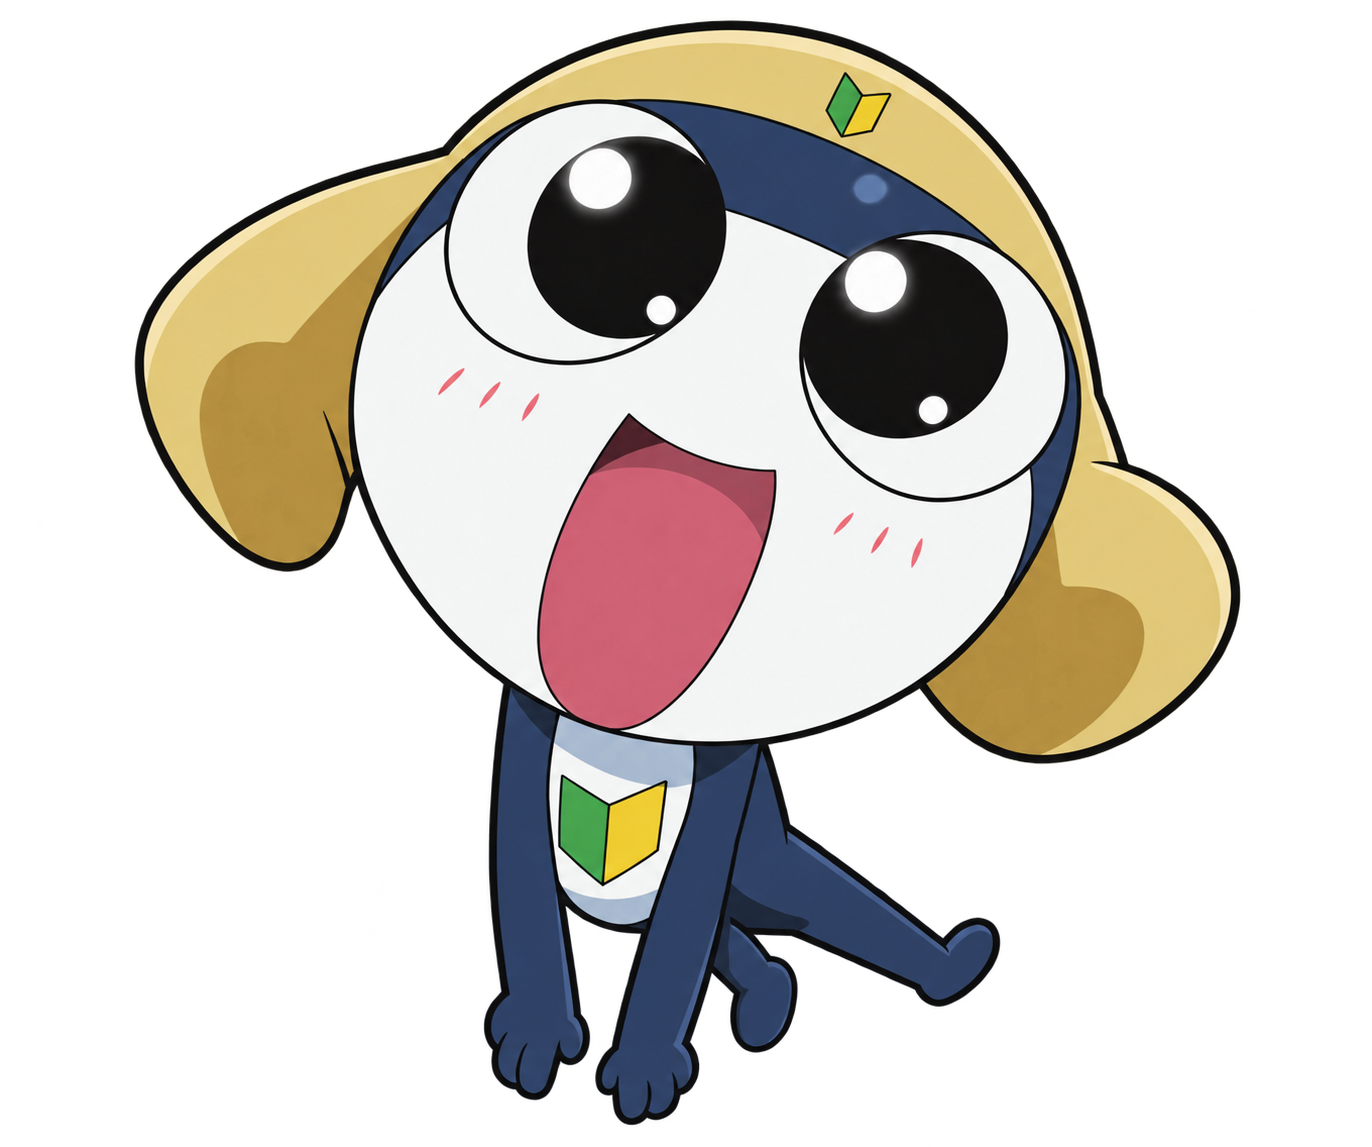
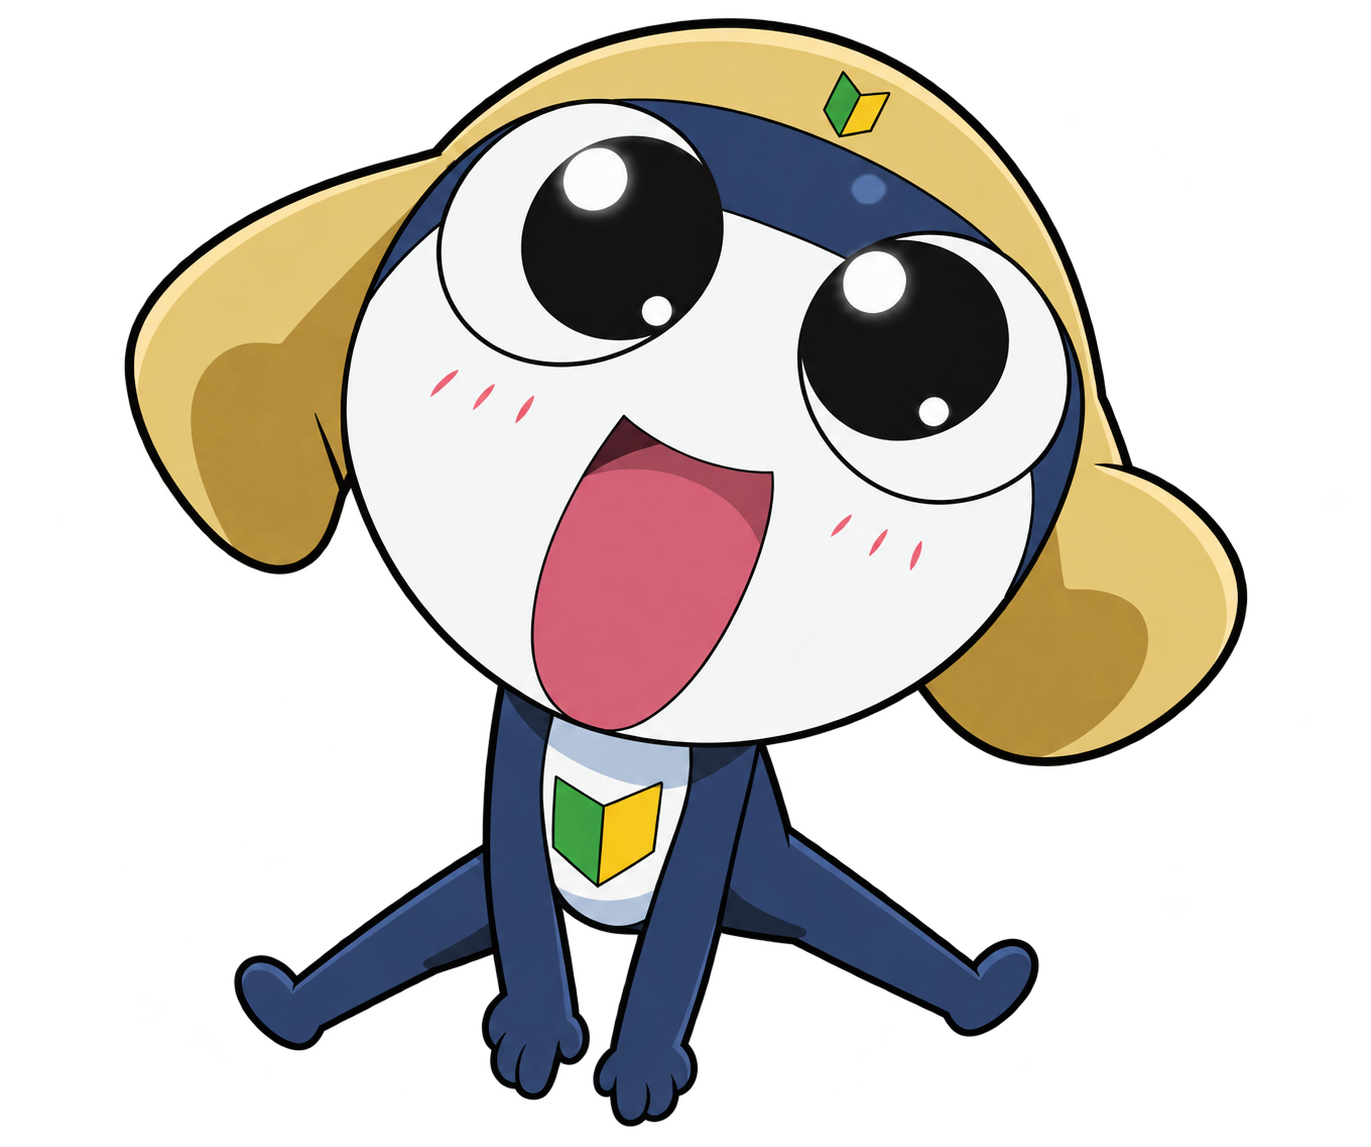
타마마 양발을 넓게 벌리고 쿠루루와 간격 확보

diff --git a/styles.css b/styles.css
@@ -72,12 +72,12 @@ main { height: 100svh; height: 100dvh; padding: 48px 28px 74px; overflow: hidden
 .character-hit:hover .character-label, .character-hit:focus-visible .character-label { opacity: 1; }
 .character-keroro { left: 49%; top: 35%; width: min(62cqw, 80cqh); z-index: 3; --depth: .6; }
 .character-giroro { left: 17%; top: 48%; width: min(43cqw, 67cqh); z-index: 8; --depth: 1.2; }
-.character-tamama { left: 83%; top: 43%; width: min(44cqw, 65cqh); z-index: 7; --depth: .9; }
+.character-tamama { left: 83%; top: 26%; width: min(44cqw, 65cqh); z-index: 7; --depth: .9; }
 .character-dororo { left: 43%; top: 81%; width: min(38cqw, 54cqh); z-index: 6; --depth: 1.5; }
 .character-kururu { left: 80%; top: 80%; width: min(41cqw, 58cqh); z-index: 6; --depth: 1.1; }
 .title-lockup { position: absolute; left: 50%; top: 57%; width: min(32cqw, 45cqh); translate: -50% -50%; z-index: 9; will-change: transform; pointer-events: none; }
 .title-lockup img { width: 100%; height: auto; filter: drop-shadow(0 7px 0 #2c3d2724); }
-.speech-bubble { position: absolute; top: 13%; left: 73%; background: #fffdf4; border: 1.5px solid var(--ink); border-radius: 50%; padding: 14px 20px; font-size: 13px; text-align: center; line-height: 1.6; rotate: 9deg; z-index: 7; }
+.speech-bubble { position: absolute; top: 9%; left: 12%; background: #fffdf4; border: 1.5px solid var(--ink); border-radius: 50%; padding: 14px 20px; font-size: 13px; text-align: center; line-height: 1.6; rotate: 9deg; z-index: 7; }
 .speech-bubble:after { content: ''; position: absolute; left: 12px; bottom: -7px; width: 15px; height: 15px; border-right: 1.5px solid var(--ink); border-bottom: 1.5px solid var(--ink); background: #fffdf4; transform: skew(-20deg) rotate(40deg); }
 .speech-bubble>span { position: absolute; right: -8px; top: -17px; font-size: 30px; color: var(--yellow); -webkit-text-stroke: 1px var(--ink); }
 
@@ -138,7 +138,7 @@ main { height: 100svh; height: 100dvh; padding: 48px 28px 74px; overflow: hidden
   .scene-background { inset: -45px -12px -94px; }
   .character-keroro { left: 49%; top: 26.5%; width: min(112cqw, 70cqh); }
   .character-giroro { left: 17%; top: 48%; width: min(65cqw, 48cqh); }
-  .character-tamama { left: 82%; top: 45%; width: min(66cqw, 47cqh); }
+  .character-tamama { left: 82%; top: 37%; width: min(66cqw, 47cqh); }
   .character-dororo { left: 42%; top: 80%; width: min(66cqw, 49cqh); }
   .character-kururu { left: 81%; top: 78%; width: min(67cqw, 48cqh); }
   .title-lockup { left: 51%; top: 58%; width: min(65cqw, 42cqh); }

diff --git a/docs/assets.md b/docs/assets.md
@@ -14,7 +14,7 @@ Strict image extraction and local inpainting, not a new illustration. The poster
 | --- | --- |
 | `keroro.png` | 한 손 경례, 반대 손 V, 오른쪽 눈 윙크, 대각선으로 뻗은 팔과 기존 몸 기울기 유지 |
 | `giroro.png` | 화면 왼쪽에 든 총, 뒤로 접힌 반대 팔, 아래로 뻗은 좁은 실루엣. 달리는 자세나 넓게 벌린 다리 금지 |
-| `tamama.png` | 시계 방향으로 기울어진 큰 머리, 몸 앞에서 아래로 내려간 양손, 오른쪽으로 향한 발. 두 팔을 벌리는 점프 금지 |
+| `tamama.png` | 시계 방향으로 기울어진 큰 머리와 몸 앞에서 내려간 양손 유지. 최신 요청에 따라 양발을 좌우로 넓게 벌린 자세 |
 | `dororo.png` | 오른쪽 뺨 옆 닌자 수인, 왼쪽으로 뻗은 반대 팔, 아래로 향하는 긴 다리와 두건 방향 유지 |
 | `kururu.png` | 시계 방향으로 기울어진 머리, 나선 안경, 왼쪽의 올린 손, 몸 앞의 접힌 팔과 아래로 흐르는 목도리. 넓은 도약 자세 금지 |
 
@@ -35,3 +35,11 @@ Strict image extraction and local inpainting, not a new illustration. The poster
 기로로는 기존 길게 내려간 다리를 유지하고 몸 오른쪽 뒤에 짧게 접힌 다리를 복원했다. 타마마는 앞으로 내려간 두 손과 오른쪽으로 뻗은 다리를 유지하고 손 뒤에서 보이는 짧은 다리를 복원했다. 복원한 발을 포함한 모든 부위가 이미지 캔버스 안에 들어간 것을 시각적으로 확인했다.
 
 완성 화면에서 타마마의 하체가 쿠루루에, 기로로의 긴 다리 끝이 모니터에 가려지는 겹침도 확인했다. 타마마는 쿠루루 앞에, 기로로는 모니터 앞에 그리도록 레이어 순서를 조정했다. 캐릭터 크기와 위치, 등장 연출은 유지했다.
+
+## 타마마의 넓게 벌린 양발과 위치 조정
+
+사용자의 후속 요청에 따라 타마마의 짧게 접힌 다리를 좌측으로 길게 뻗은 다리로 바꾸어, 양발을 넓게 벌린 자세로 수정했다. 내장 image_gen 도구에 현재 PNG를 편집 대상으로, 원본 포스터를 자세 참조로 제공했다. 수정 PNG는 `assets/tamama.png`에 저장했다.
+
+편집 프롬프트: “Change only Tamama's legs into a wide straddle like the poster. Preserve the long right-extending leg; replace the tucked leg with a similarly long leg extending left and slightly down, about 110–130 degrees apart, both rounded feet visible. Keep the head tilt, expression, hat, badge, body, both hanging arms and hands, colors, linework, scale and framing unchanged. Exactly two arms and two legs. True alpha transparency.”
+
+쿠루루와 간격을 두기 위해 타마마의 중심 위치를 데스크톱에서는 장면 높이의 43%에서 26%로, 세로 화면에서는 45%에서 37%로 올렸다. 부유 동작 중에도 손끝이 쿠루루 모자와 겹치지 않도록 여유를 두었다. 얼굴을 가리게 된 말풍선도 왼쪽 위 빈 공간으로 옮겼다. 캐릭터 크기와 등장 연출은 유지했다.

diff --git a/docs/verification.md b/docs/verification.md
@@ -39,3 +39,7 @@
 두 PNG 자체의 두 번째 다리 누락을 확인해 내장 이미지 편집으로 복원했다. 각각 1182×1331, 1372×1147 크기의 alpha 포함 PNG로 저장했다. 이미지 자체에서 두 팔·두 다리와 발 끝을 시각적으로 확인했다. 웹에서는 타마마를 쿠루루 앞에, 기로로를 모니터 앞에 배치하여 다리가 가려지지 않도록 했다.
 
 에셋 교체 후 정적 빌드와 브라우저 재생·클릭·모바일·동작 줄이기 테스트를 통과했다. `/tmp/keroro-legs-qa/`에 확인 화면을 저장했다. 캐릭터의 기존 자세와 크기는 유지했다.
+
+## 타마마 양발 벌림과 상단 이동
+
+최신 요청에 맞춰 타마마의 양발을 좌우로 넓게 벌린 PNG(1371×1147, alpha 포함)로 교체했다. 얼굴과 양팔은 유지했다. 데스크톱·세로 화면에서 위치를 올렸으며, 얼굴에 겹치던 말풍선은 왼쪽 위로 옮겼다. `/tmp/keroro-tamama-qa/`의 데스크톱과 모바일 스크린샷에서 자세와 간격을 확인했다. 브라우저 재생·일시정지·캐릭터 반응·이미지 로딩·반응형 검증과 정적 빌드를 통과했다.
